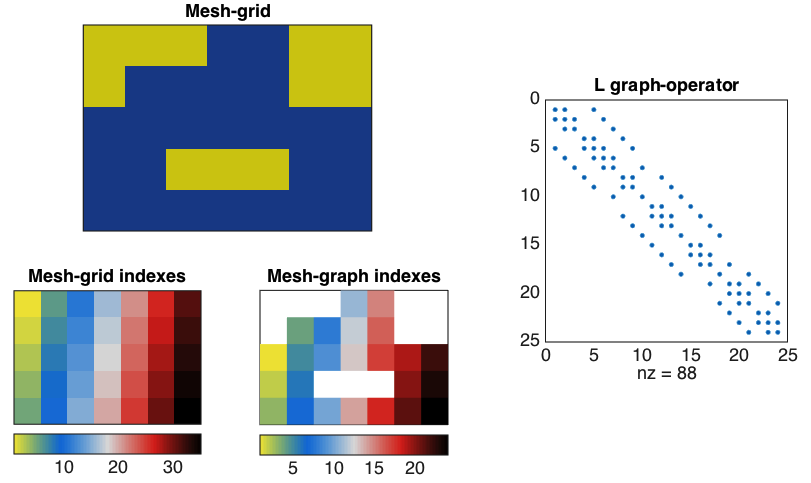
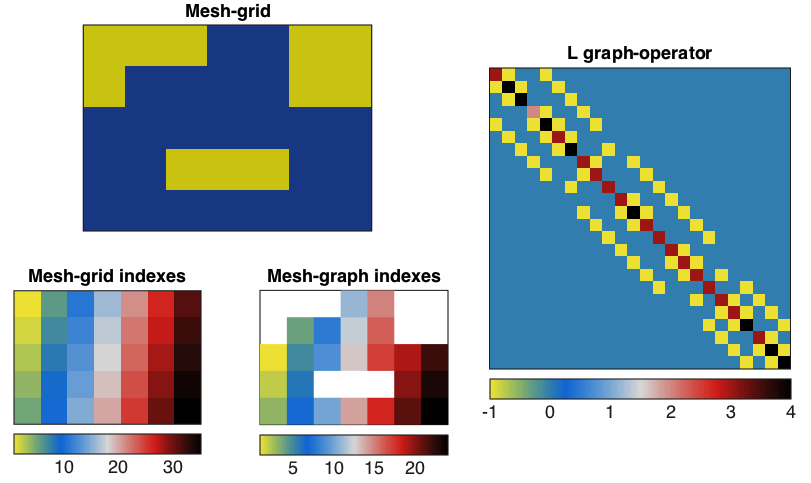
mesher better

Changed region(s): [[0.5857, 0.0932, 0.9864, 0.8696]]

diff --git a/projects/graph-alg/mesher/mesher_demo.m b/projects/graph-alg/mesher/mesher_demo.m
@@ -163,6 +163,49 @@ neigh_type = neigh_type_(a,nx,nz,n_g2m,graph2mesh);
 % ------------------------------------------------------------------------------
 [I,J] = IJ_(n_g2m,n_ij,n_IJ,neigh_graph);
 % ------------------------------------------------------------------------------
+V = zeros(n_IJ,1);
+il = 1;
+il_= 0;
+for i_g2m=1:n_g2m
+    % -- end of line
+    il_ = il_ + n_ij(i_g2m)+1;
+    % -- in line
+    % V
+    ith = 0;
+    for ii=(il+1):il_
+        % sum for ith entry
+        ith = ith +1;
+        % neighbors entries
+        V(ii) = -1;
+        % NOTE: the +1 and -1 should be replaced (each) with a combination of:
+        % 1. material properties (i.e. harmonic averages of conductivity),
+        % 2. and dx_j / dz_j terms.
+        % 
+        % to do so, use J.
+        % for example, inside this loop:
+        % J(il) gives the ith node,
+        % J(ii) gives neighbor of ith node.
+        % 
+        % the harmonic average would be:
+        % sig_ij_ = ( 2*sig(J(il)) * sig(J(ii)) ) / ( sig(J(il)) + sig(J(ii)) )
+    end
+    % robin nodes are summed to 'ith'
+    for i_nei=1:4
+        if (neigh_type(J(il),i_nei) == 0)
+            ith = ith +1;
+            % NOTE: the +1 should be replaced by the appropriate entry.
+            % J(il) gives the ith node,
+            % neigh_type(J(il),i_nei) gives neighbor of ith node.
+        end
+    end
+    % ith entry
+    V(il) = ith;
+    % -- begining of next line
+    il = il_ + 1;
+end
+% ------------------------------------------------------------------------------
+L = sparse(I,J,V);
+% ------------------------------------------------------------------------------
 % 
 %                              visualize results
 % 
@@ -222,12 +265,11 @@ set(gca,'xtick',[])
 set(gca,'ytick',[])
 simple_figure()
 % ------------------------------------------------------------------------------
-% this part is only an example on how the matrix L will look like
-v=ones(n_IJ,1); 
-L=sparse(I,J,v);
-
 figure;
-spy(L)
+fancy_imagesc(L);
+colormap(rainbow2_cb(1))
 title('L graph-operator')
+set(gca,'xtick',[])
+set(gca,'ytick',[])
 simple_figure()
 % ------------------------------------------------------------------------------
